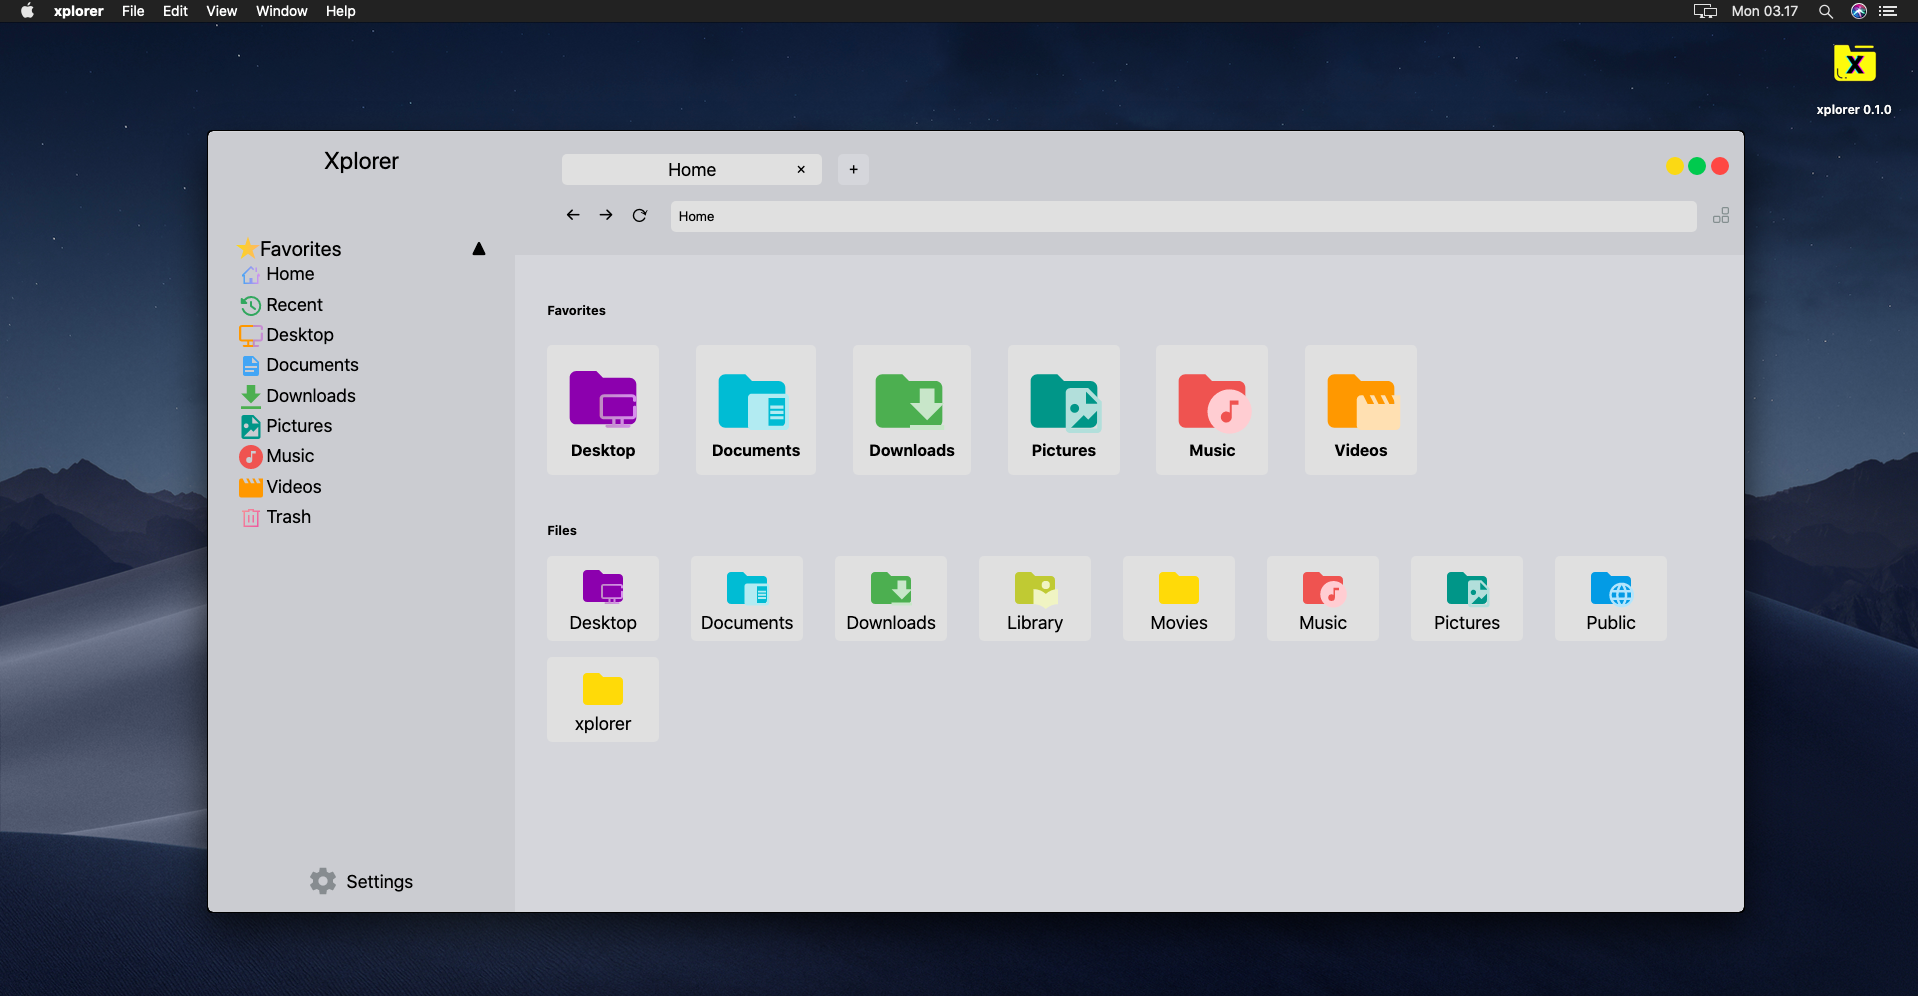
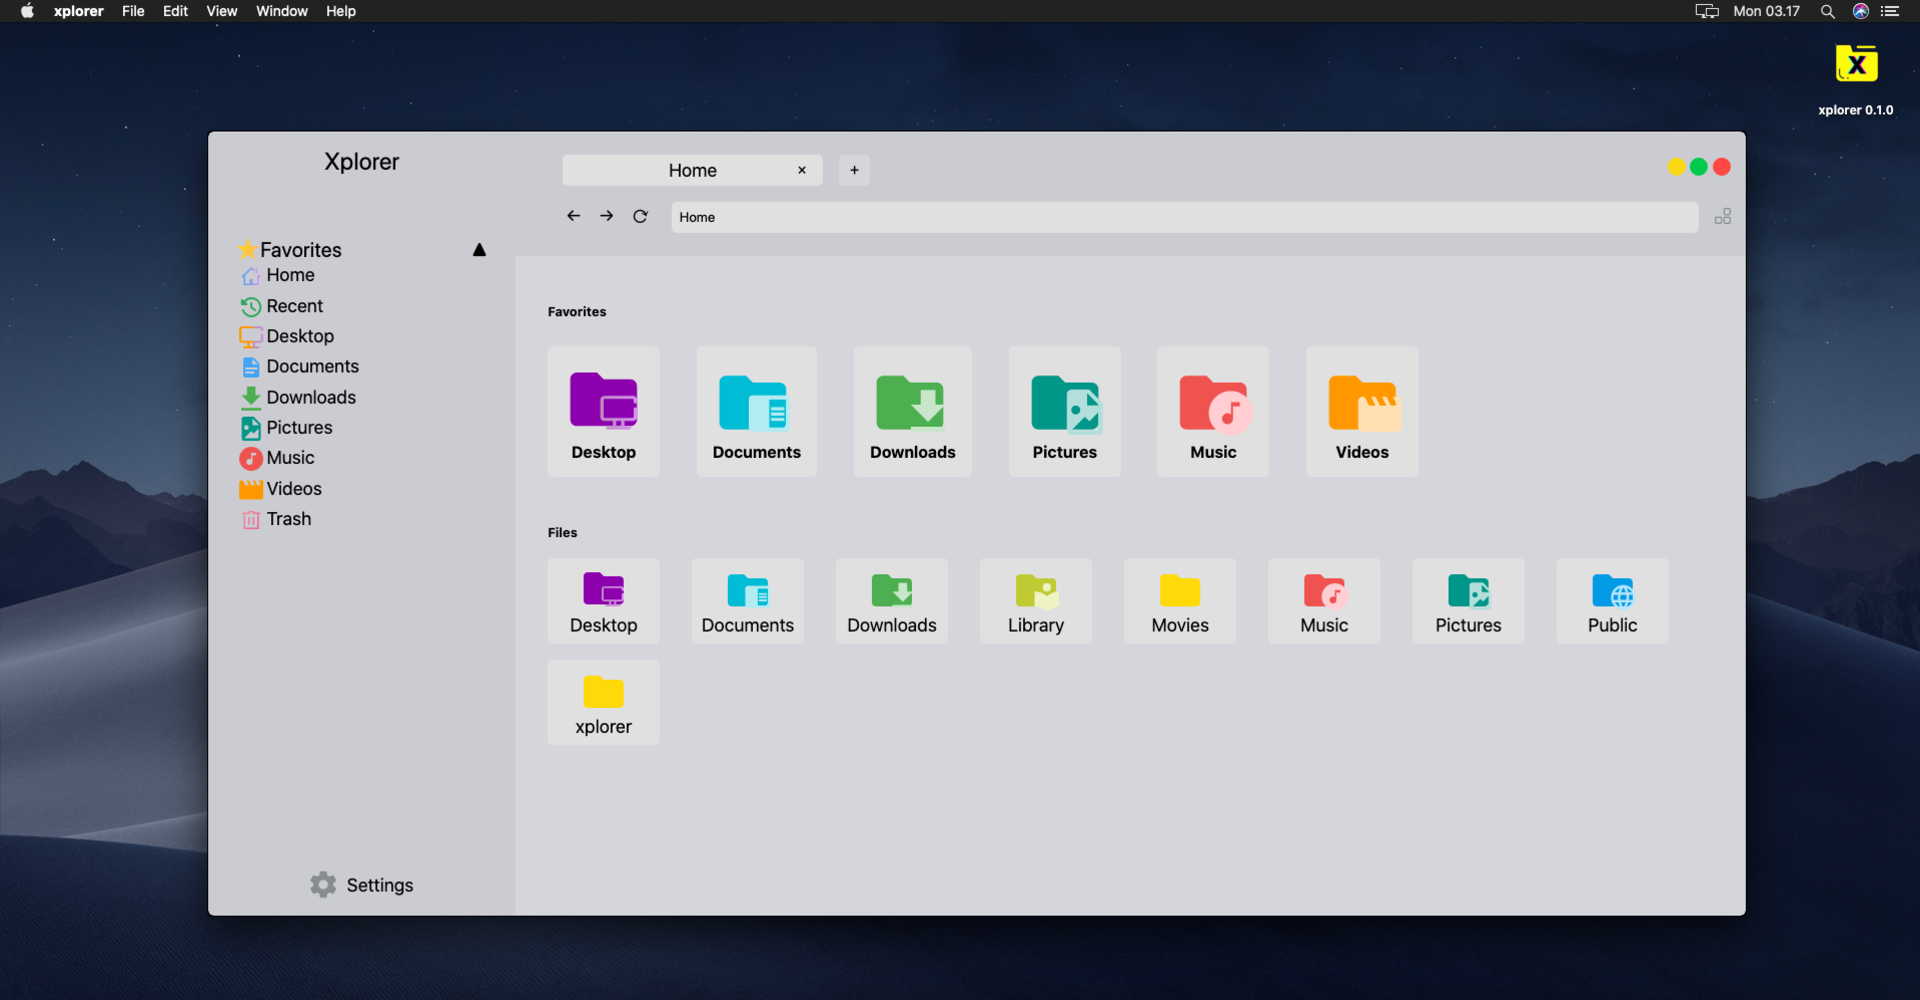
fix(docs): homepage slideshow keeps shifting whole page contents (resolve #102)

diff --git a/docs/src/pages/index.jsx b/docs/src/pages/index.jsx
@@ -2,6 +2,7 @@ import React from 'react';
 import Layout from '@theme/Layout';
 import useDocusaurusContext from '@docusaurus/useDocusaurusContext';
 import Slideshow from './slideshow';
+import Link from '@docusaurus/Link';
 
 export default function Home() {
 	const { siteConfig } = useDocusaurusContext();
@@ -26,19 +27,15 @@ export default function Home() {
 							>
 								Download now
 							</a>
-							<a
-								href="/docs/intro"
+							<Link
+								to="/docs/intro"
 								className="margin--sm explore--docs--link"
 							>
 								Xplorer the docs -{'>'}
-							</a>
+							</Link>
 						</div>
 					</div>
 					<div className="col col--8">
-						{/*<img
-							src="/img/Xplorer win.png"
-							alt="Xplorer app on Windows 11"
-						/>*/}
 						<Slideshow></Slideshow>
 					</div>
 				</div>
@@ -95,12 +92,9 @@ export default function Home() {
 							<p>
 								Xplorer supports files preview, even videos!
 								Learn more{' '}
-								<a
-									href="/docs/guides/operation/#preview-file"
-									target="_blank"
-								>
+								<Link to="/docs/guides/operation/#preview-file">
 									here
-								</a>
+								</Link>
 								.
 							</p>
 						</div>
